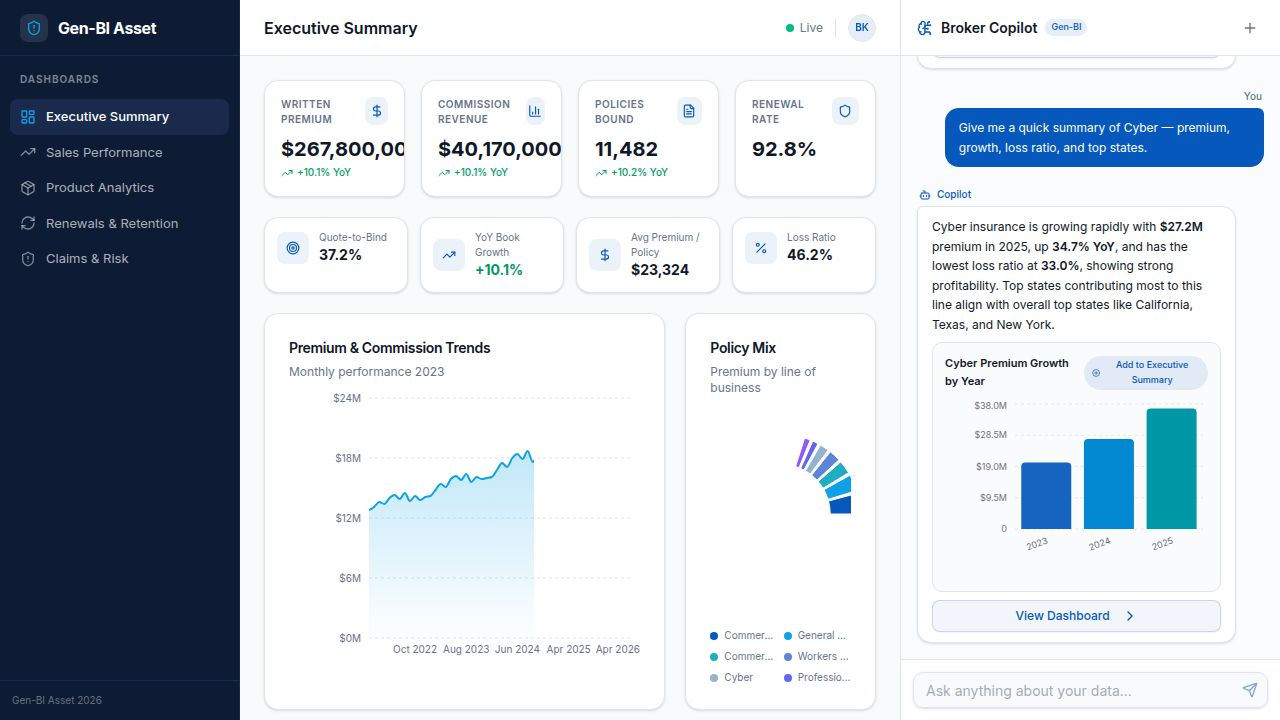
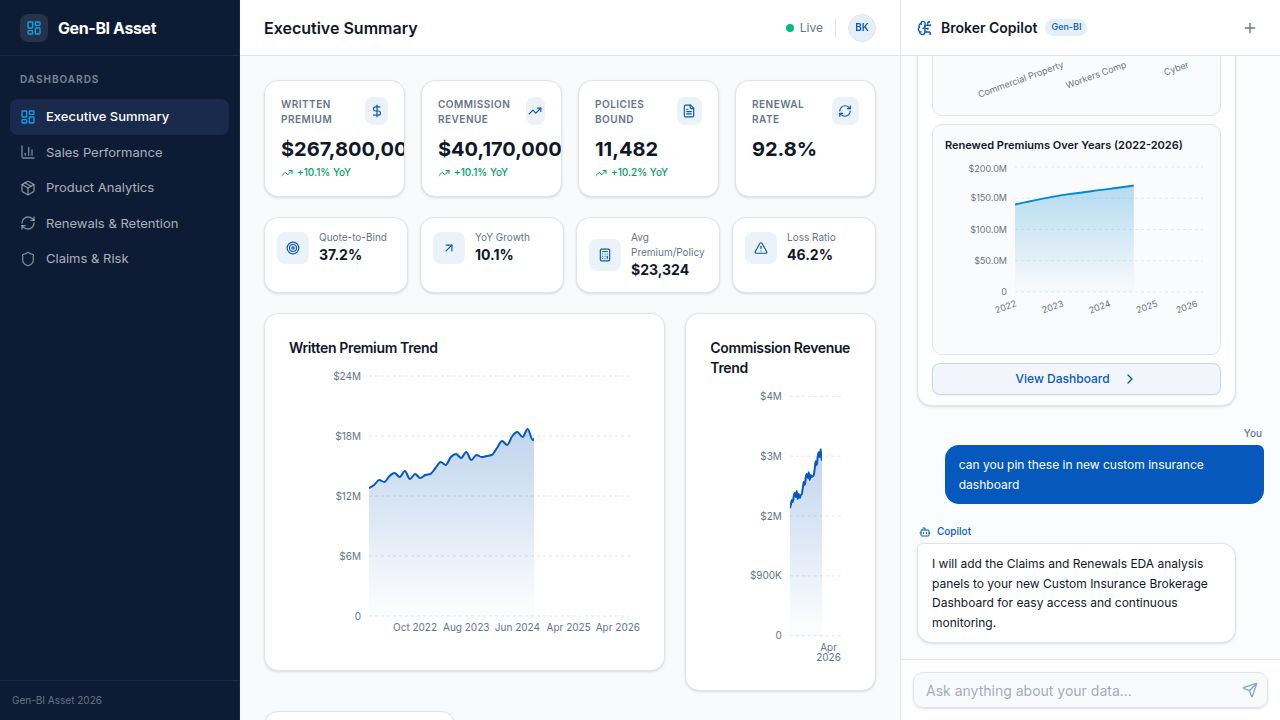
Remove custom dashboard creation and sidebar features
Removes custom dashboard creation functionality, custom sidebar entries, and associated UI elements based on user feedback.

Replit-Commit-Author: Agent
Replit-Commit-Session-Id: 933697c0-3980-46cb-aba5-78cae8f786de
Replit-Commit-Checkpoint-Type: full_checkpoint
Replit-Commit-Event-Id: 99246833-b29d-4136-ac6f-8d77d7600d2e
Replit-Commit-Screenshot-Url: https://storage.googleapis.com/screenshot-production-us-central1/6d765d55-5dc5-4580-b57f-78c3c03a4d8f/933697c0-3980-46cb-aba5-78cae8f786de/ZDhGSqU
Replit-Helium-Checkpoint-Created: true

diff --git a/artifacts/insurance-dashboard/src/components/layout.tsx b/artifacts/insurance-dashboard/src/components/layout.tsx
@@ -8,13 +8,8 @@ import {
   ChevronRight,
   BrainCircuit,
   Loader2,
-  PlusCircle,
-  Check,
-  LayoutDashboard,
-  X
 } from "lucide-react";
 import { cn, formatCurrency } from "@/lib/utils";
-import { useCustomDashboards, classifyChart, type CustomSidebarEntry } from "@/lib/custom-dashboards";
 import { useCopilot } from "@/lib/copilot-context";
 import { useTenantConfig, resolveIcon } from "@/lib/tenant-config";
 import {
@@ -37,10 +32,8 @@ import {
 } from "recharts";
 
 export default function Layout({ children }: { children: React.ReactNode }) {
-  const [location, setLocation] = useLocation();
+  const [location] = useLocation();
   const { config } = useTenantConfig();
-  const { sidebarEntries, removeSidebarEntry } = useCustomDashboards();
-
   const navItems = (config?.sections || []).map((s) => ({
     href: s.route,
     label: s.label,
@@ -83,39 +76,6 @@ export default function Layout({ children }: { children: React.ReactNode }) {
               </Link>
             );
           })}
-          {sidebarEntries.length > 0 && (
-            <>
-              <div className="text-[10px] font-semibold text-sidebar-foreground/50 uppercase tracking-[0.1em] mt-5 mb-3 px-2.5">
-                Custom
-              </div>
-              {sidebarEntries.map((entry) => {
-                const isActive = location === entry.route;
-                return (
-                  <div key={entry.id} className="group relative">
-                    <Link href={entry.route}>
-                      <div
-                        className={cn(
-                          "flex items-center gap-2.5 px-2.5 py-2 rounded-md text-[13px] transition-all cursor-pointer",
-                          isActive
-                            ? "bg-sidebar-accent text-white font-medium"
-                            : "text-sidebar-foreground/70 hover:bg-sidebar-accent/50 hover:text-white"
-                        )}
-                      >
-                        <LayoutDashboard className={cn("w-4 h-4", isActive ? "text-sidebar-primary" : "text-sidebar-foreground/50")} />
-                        <span className="truncate flex-1">{entry.title}</span>
-                      </div>
-                    </Link>
-                    <button
-                      onClick={(e) => { e.stopPropagation(); removeSidebarEntry(entry.id); if (isActive) setLocation("/"); }}
-                      className="absolute right-2 top-1/2 -translate-y-1/2 opacity-0 group-hover:opacity-100 transition-opacity p-0.5 rounded hover:bg-white/10"
-                    >
-                      <X className="w-3 h-3 text-sidebar-foreground/50 hover:text-white" />
-                    </button>
-                  </div>
-                );
-              })}
-            </>
-          )}
         </nav>
         <div className="p-3 border-t border-sidebar-border text-[10px] text-sidebar-foreground/40">
           {brandName} {new Date().getFullYear()}
@@ -157,25 +117,6 @@ const CHART_COLORS = ["#1565C0", "#0288D1", "#0097A7", "#00838F", "#00695C", "#6
 
 function InlineChart({ chartData }: { chartData: { type: string; title: string; xKey: string; yKey: string; data: any[] } }) {
   const { type, title, xKey, yKey, data } = chartData;
-  const { addChart, charts } = useCustomDashboards();
-  const [added, setAdded] = useState(false);
-  const classification = classifyChart(chartData);
-
-  const alreadyAdded = charts.some(c => c.title === title && c.type === type && c.section === classification.section);
-
-  const handleAdd = () => {
-    if (alreadyAdded || added) return;
-    addChart({
-      type,
-      title,
-      xKey,
-      yKey,
-      data,
-      section: classification.section,
-      sectionLabel: classification.sectionLabel,
-    });
-    setAdded(true);
-  };
 
   const formatValue = (val: number) => {
     if (val >= 1000000) return `$${(val / 1000000).toFixed(1)}M`;
@@ -186,24 +127,8 @@ function InlineChart({ chartData }: { chartData: { type: string; title: string; 
 
   return (
     <div className="mt-2 mb-1 bg-muted/40 rounded-lg border border-border p-3">
-      <div className="flex items-center justify-between mb-2">
+      <div className="mb-2">
         <p className="text-[11px] font-semibold text-foreground">{title}</p>
-        <button
-          onClick={handleAdd}
-          disabled={alreadyAdded || added}
-          className={cn(
-            "flex items-center gap-1 text-[9px] font-medium px-2 py-0.5 rounded-full transition-all",
-            alreadyAdded || added
-              ? "bg-emerald-50 text-emerald-600 cursor-default"
-              : "bg-primary/10 text-primary hover:bg-primary/20 cursor-pointer"
-          )}
-        >
-          {alreadyAdded || added ? (
-            <><Check className="w-2.5 h-2.5" /> Added to {classification.sectionLabel}</>
-          ) : (
-            <><PlusCircle className="w-2.5 h-2.5" /> Add to {classification.sectionLabel}</>
-          )}
-        </button>
       </div>
       <div className="h-[180px] w-full">
         <ResponsiveContainer width="100%" height="100%">
@@ -308,8 +233,6 @@ function ChatPanel() {
   const { registerHandler } = useCopilot();
   const pendingQuestionRef = useRef<string | null>(null);
   const { config } = useTenantConfig();
-  const { addSidebarEntry } = useCustomDashboards();
-  const [dismissedCreates, setDismissedCreates] = useState<Set<string>>(new Set());
 
   const copilotName = config?.branding?.copilotName || "Broker Copilot";
   const suggestedPrompts = config?.suggestedPrompts?.slice(0, 3) || [
@@ -435,10 +358,7 @@ function ChatPanel() {
       processed = processed.replace(/\[NAVIGATE:.*?\]/g, '');
     }
     
-    const createMatch = text.match(/\[CREATE_DASHBOARD:(.*?)\]/);
-    if (createMatch) {
-      processed = processed.replace(/\[CREATE_DASHBOARD:.*?\]/g, '');
-    }
+    processed = processed.replace(/\[CREATE_DASHBOARD:.*?\]/g, '');
 
     return (
       <div className="space-y-2">
@@ -455,21 +375,6 @@ function ChatPanel() {
           >
             View Dashboard <ChevronRight className="w-3.5 h-3.5 ml-1" />
           </Button>
-        )}
-        {createMatch && !dismissedCreates.has(createMatch[1]) && (
-          <div className="bg-muted border border-border rounded-lg p-3 mt-1">
-            <p className="text-xs mb-2 font-medium text-foreground">New dashboard: {createMatch[1]}. Add to sidebar?</p>
-            <div className="flex gap-2">
-              <Button size="sm" className="flex-1 text-xs" onClick={() => {
-                const entry = addSidebarEntry(createMatch[1]);
-                setDismissedCreates(prev => new Set(prev).add(createMatch[1]));
-                setLocation(entry.route);
-              }}>Yes</Button>
-              <Button size="sm" variant="outline" className="flex-1 text-xs" onClick={() => {
-                setDismissedCreates(prev => new Set(prev).add(createMatch[1]));
-              }}>No</Button>
-            </div>
-          </div>
         )}
       </div>
     );

diff --git a/artifacts/api-server/src/config/prompt-builder.ts b/artifacts/api-server/src/config/prompt-builder.ts
@@ -55,8 +55,7 @@ const RESPONSE_RULES = `ADDITIONAL RESPONSE RULES:
 1. Use **bold** for key metrics.
 2. Keep text concise — the chart IS the answer.
 3. For navigation, include [NAVIGATE:/route] after the chart.
-4. For dashboard creation requests, include [CREATE_DASHBOARD:Title].
-5. When the user asks to "Summarize" or "Analyze" a specific metric (these are auto-triggered from clicking a KPI card), give a SHORT 2-3 sentence insight with 1-2 bold key facts, then a small chart showing the trend or breakdown. Keep it concise — this is a quick tooltip-style summary, not a full analysis.
+4. When the user asks to "Summarize" or "Analyze" a specific metric (these are auto-triggered from clicking a KPI card), give a SHORT 2-3 sentence insight with 1-2 bold key facts, then a small chart showing the trend or breakdown. Keep it concise — this is a quick tooltip-style summary, not a full analysis.
 6. If asked about a specific time range, filter the data and build the chart from it.`;
 
 export async function buildSystemPrompt(): Promise<string> {

diff --git a/artifacts/insurance-dashboard/src/App.tsx b/artifacts/insurance-dashboard/src/App.tsx
@@ -8,7 +8,6 @@ import { TenantConfigProvider, useTenantConfig } from "@/lib/tenant-config";
 import NotFound from "@/pages/not-found";
 import Layout from "@/components/layout";
 import DashboardSection from "@/components/DashboardSection";
-import CustomDashboardPage from "@/components/CustomDashboardPage";
 import { Skeleton } from "@/components/ui/skeleton";
 
 const queryClient = new QueryClient({
@@ -43,7 +42,6 @@ function ConfigDrivenRoutes() {
           component={() => <DashboardSection sectionId={section.id} />}
         />
       ))}
-      <Route path="/custom/:slug" component={CustomDashboardPage} />
       <Route component={NotFound} />
     </Switch>
   );